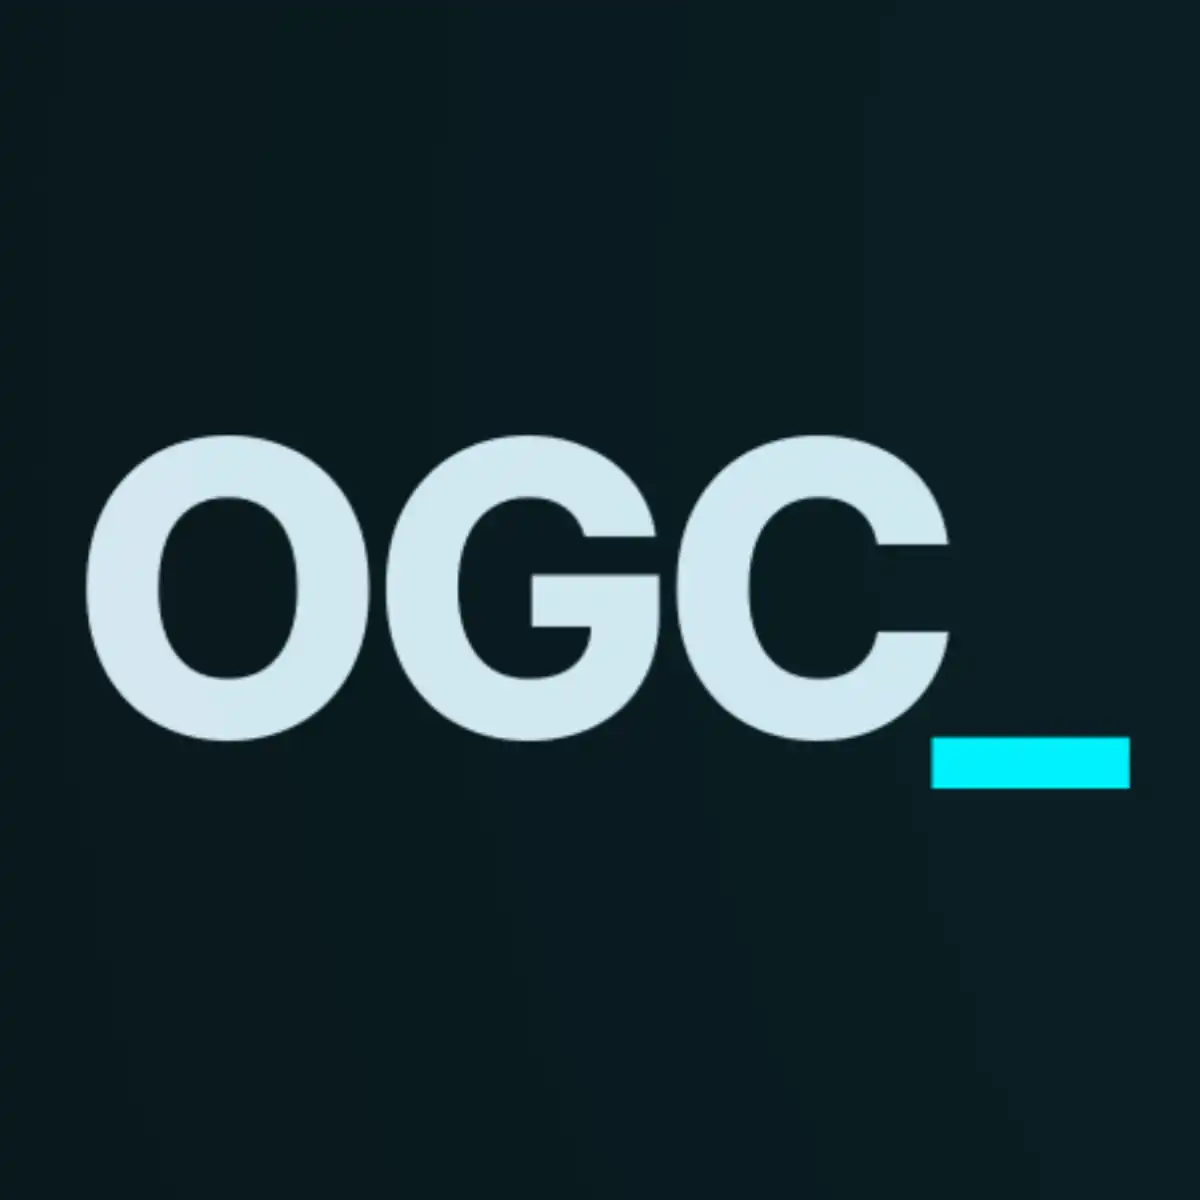
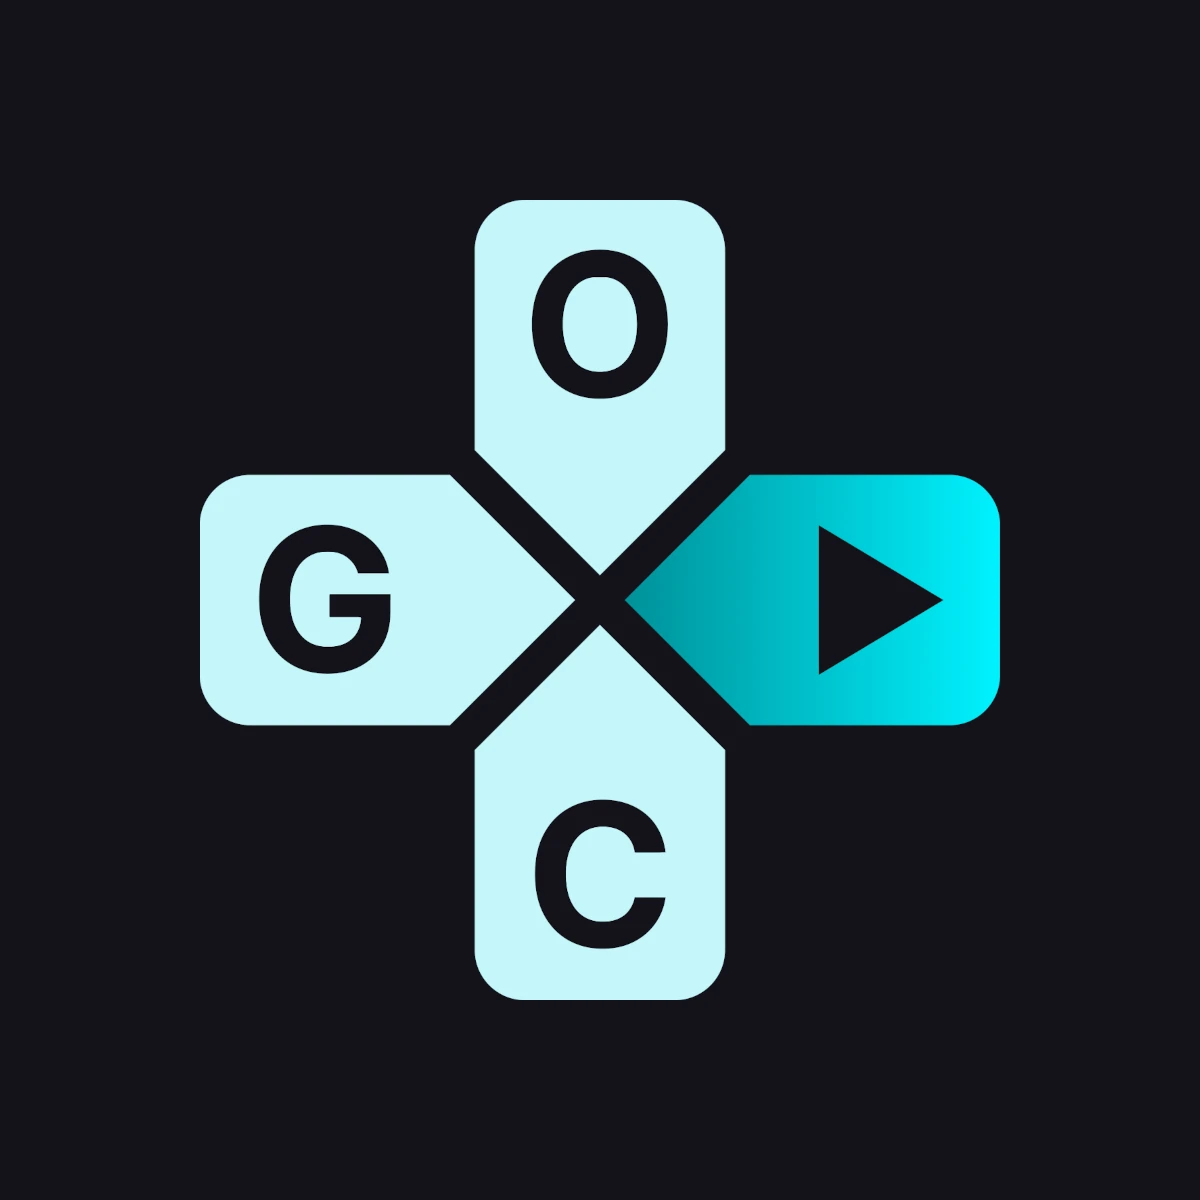
chore: update graphics (#14)

Changed region(s): [[0.0617, 0.1542, 0.9558, 0.8325]]

diff --git a/src/styles/global.css b/src/styles/global.css
@@ -3,7 +3,7 @@
   --bg-rgb: 250 250 250;
   --text: #111827;
   --text-muted: #4b5563;
-  --accent: #7c3aed;
+  --accent: #009199;
   --accent-glow: rgb(124 58 237 / 0.2);
   --accent-soft: rgb(124 58 237 / 0.08);
   --card-bg: #ffffff;
@@ -36,7 +36,6 @@
     --bg-rgb: 11 11 18;
     --text: #f8fafc;
     --text-muted: #94a3b8;
-    --accent: #00f2ff;
     --accent-glow: rgb(0 242 255 / 0.25);
     --accent-soft: rgb(0 242 255 / 0.08);
     --card-bg: #13131c;
@@ -45,6 +44,10 @@
     --border: #1e1e2e;
     --btn-text: #000000;
     --tag-bg: #28283a;
+  }
+
+  .logo {
+    background-image: url('/logo.svg') !important;
   }
 }
 
@@ -118,24 +121,10 @@ nav {
 }
 
 .logo {
-  font-size: 1.65rem;
-  font-weight: 800;
-  letter-spacing: -0.04em;
-}
-
-.logo-link {
-  color: inherit;
-  text-decoration: none;
-}
-
-.blink {
-  color: var(--accent);
-  animation: cursor-blink 1s step-end infinite;
-}
-
-@keyframes cursor-blink {
-  0%, 100% { opacity: 1; }
-  50% { opacity: 0; }
+  width: 60px;
+  height: 60px;
+  background-image: url('/logodark.svg');
+  background-size: cover;
 }
 
 .nav-links {
